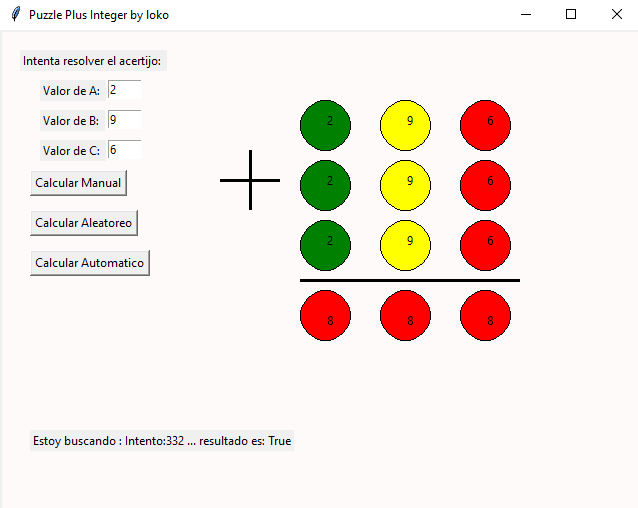
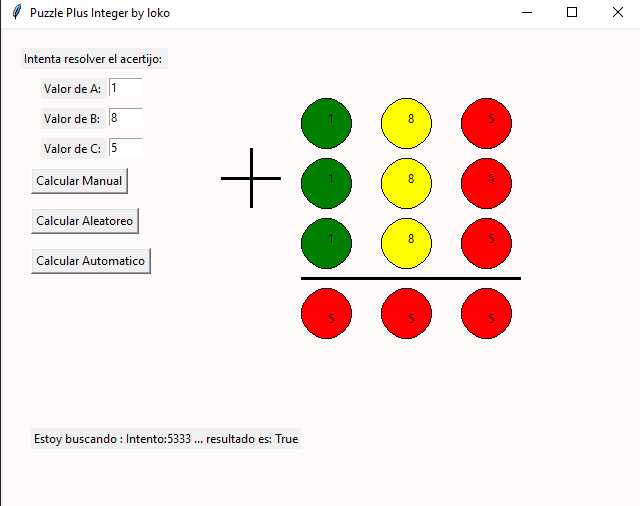
Resolve a Puzzle
try 02 to resolvel a puzzle... result: OK

diff --git a/main.py b/main.py
@@ -97,7 +97,7 @@ class Software:
    def isFindPuzzle(self, sum):
       result = self.converAResultIn3Digits(sum)
       if len(result) == 3:
-         if result[0] == result[1] == result[2]:
+         if result[0] == result[1] == result[2] == self.numbers["C"]:
             print("Encontre la respuesta: ", result)
             self.resolvePuzzle = True
       
